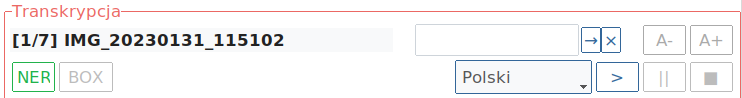
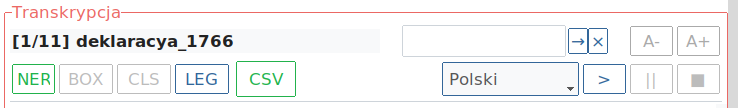
eksport ner csv

diff --git a/src/scan_transcript_manager.py b/src/scan_transcript_manager.py
@@ -2,6 +2,7 @@
 import os
 import re
 import json
+import csv
 import threading
 import tempfile
 import hashlib
@@ -292,6 +293,10 @@ class ManuscriptEditor:
                                   bootstyle="info-outline", width=4, padding=2)
         self.btn_leg.pack(side=LEFT, padx=2)
 
+        self.btn_csv = ttk.Button(ai_tools, text="CSV", command=self.export_ner_to_csv,
+                                  bootstyle="success-outline")
+        self.btn_csv.pack(side=LEFT, fill=X, expand=True, padx=5)
+
         # prawa strona wiersza 2: lektor (TTS)
         tts_tools = ttk.Frame(self.header_row2)
         tts_tools.pack(side=RIGHT)
@@ -467,6 +472,7 @@ class ManuscriptEditor:
         ToolTip(self.btn_box, "Zlokalizuj znalezione nazwy własne na skanie (wymaga wcześniejszego NER)")
         ToolTip(self.btn_cls, "Wyczyść wszystkie oznaczenia ze skanu i podświetlenia w tekście")
         ToolTip(self.btn_leg, "Pokaż legendę kolorów analizy NER")
+        ToolTip(self.btn_csv, "Eksport nazw własnych do pliku CSV")
         ToolTip(self.btn_speak, "Odsłuchaj tekst transkrypcji (lektor)")
         ToolTip(self.btn_stop, "Zatrzymaj odczytywanie (lektor)")
         ToolTip(self.btn_pause, "Pauza odczytywania (lektor)")
@@ -487,6 +493,100 @@ class ManuscriptEditor:
         ToolTip(self.lang_combobox, "Wybór języka dla lektora TTS")
 
         self.select_folder()
+
+
+    def export_ner_to_csv(self):
+        """ eksport NER do CSV z mianownikiem i kontekstem z całego katalogu """
+        if not self.file_pairs:
+            return
+
+        target_path = filedialog.asksaveasfilename(
+            title="Zapisz nazwy własne w pliku CSV",
+            defaultextension=".csv",
+            filetypes=[("Plik CSV", "*.csv")],
+            parent=self.root
+        )
+        if not target_path:
+            return
+
+        all_data_to_process = []
+        unique_names = set()
+
+        for pair in self.file_pairs:
+            json_path = os.path.splitext(pair['txt'])[0] + ".json"
+            txt_path = pair['txt']
+
+            if os.path.exists(json_path) and os.path.exists(txt_path):
+                try:
+                    with open(json_path, 'r', encoding='utf-8') as f:
+                        entities = json.load(f).get("entities", {})
+
+                    for cat, names in entities.items():
+                        for name in names:
+                            all_data_to_process.append({
+                                'orig': name,
+                                'cat': cat,
+                                'file': os.path.basename(pair['img']),
+                            })
+                            unique_names.add(name)
+                except Exception as e:
+                    print(f"Błąd przetwarzania {pair['name']}: {e}")
+
+        if not all_data_to_process:
+            messagebox.showinfo("Eksport", "Brak danych NER do eksportu.")
+            return
+
+        self.btn_ai.config(state="disabled")
+        threading.Thread(target=self._ner_export_worker,
+                         args=(list(unique_names), all_data_to_process, target_path),
+                         daemon=True).start()
+
+
+    def _ner_export_worker(self, names_list, full_records, target_path):
+        """ wątek AI: mianownik + zapis 5 kolumn do CSV """
+        try:
+            nominative_map = {}
+            client = genai.Client(api_key=self.api_key)
+
+            # przetwarzanie paczek nazw przez Gemini
+            for i in range(0, len(names_list), 50):
+                batch = names_list[i:i+50]
+                prompt = (
+                    "Dla podanej listy nazw własnych z dokumentów historycznych, "
+                    "podaj ich formę w mianowniku, nie zmieniaj rodzaju nazw (męski, żeński, nijaki). "
+                    "Zwróć WYŁĄCZNIE czysty JSON: {\"oryginał\": \"mianownik\", ...}. "
+                    f"Lista: {', '.join(batch)}"
+                )
+
+                config = types.GenerateContentConfig(
+                    automatic_function_calling=types.AutomaticFunctionCallingConfig(disable=True)
+                )
+
+                response = client.models.generate_content(
+                    model="gemini-flash-latest", # lub gemini-3-flash-preview
+                    contents=prompt,
+                    config=config
+                )
+
+                if response.text:
+                    json_str = response.text.replace("```json", "").replace("```", "").strip()
+                    nominative_map.update(json.loads(json_str))
+
+            # zapis do CSV (separator średnik)
+            with open(target_path, 'w', encoding='utf-8-sig', newline='') as csvfile:
+                writer = csv.writer(csvfile, delimiter=';')
+                writer.writerow(['Nazwa oryginalna', 'Mianownik', 'Kategoria', 'Plik skanu'])
+
+                for rec in full_records:
+                    base_name = nominative_map.get(rec['orig'], rec['orig'])
+                    writer.writerow([rec['orig'], base_name, rec['cat'], rec['file']])
+
+            self.root.after(0, lambda: messagebox.showinfo("Sukces", f"Eksport zakończony:\n{target_path}"))
+
+        except Exception as e:
+            self.root.after(0, lambda: messagebox.showerror("Błąd eksportu", str(e)))
+        finally:
+            self.root.after(0, lambda: self.btn_ai.config(state="normal", text="Gemini"))
 
 
     def update_active_line_highlight(self, event=None):

diff --git a/README.md b/README.md
@@ -13,7 +13,7 @@ Application Features:
   - Simple filters can be applied to scans: contrast enhancement and image inversion.
   - A feature that aids verification is the ability to read the transcript aloud (TTS reader), this feature requires internet access.
   - Ability to adjust the font size in the transcription field.
-  - Due to the fact that transcription errors quite often appear in proper names (people, places, institutions), the option to highlight such words (NER button) has been added so that special attention can be paid to them during transcription verification.
+  - Due to the fact that transcription errors quite often appear in proper names (people, places, institutions), the option to highlight such words (NER button) has been added so that special attention can be paid to them during transcription verification. Experimental function (BOX button) for marking entity names in the scan. The names are marked with frames, and the name from transcription is placed above the frame, for quick assessment of transcription accuracy. The frames for entity names can be adjusted in terms of size and position. The list of found entity names can be exported to a CSV file for further use.
 
 
 ## Screenshots and description:
